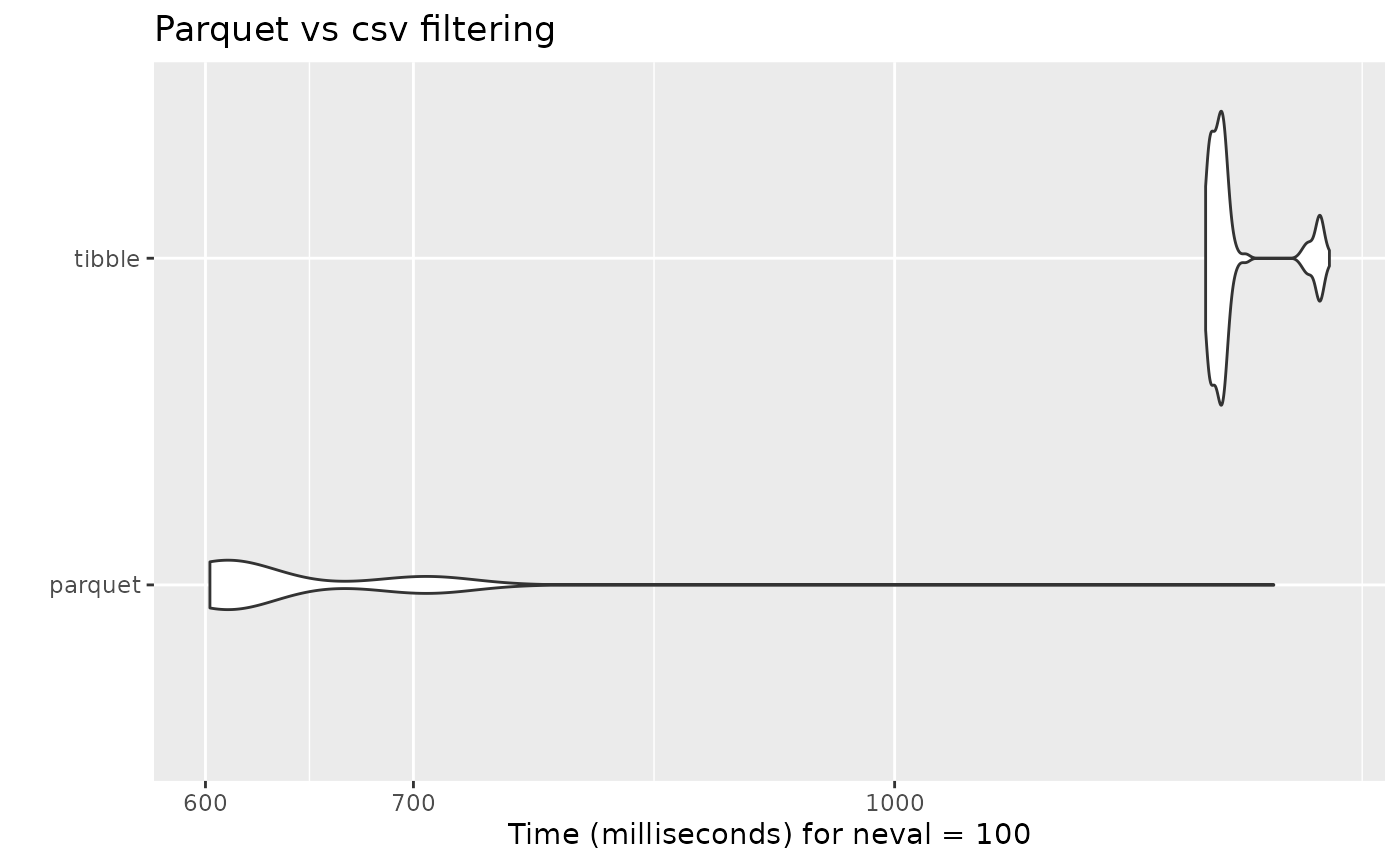
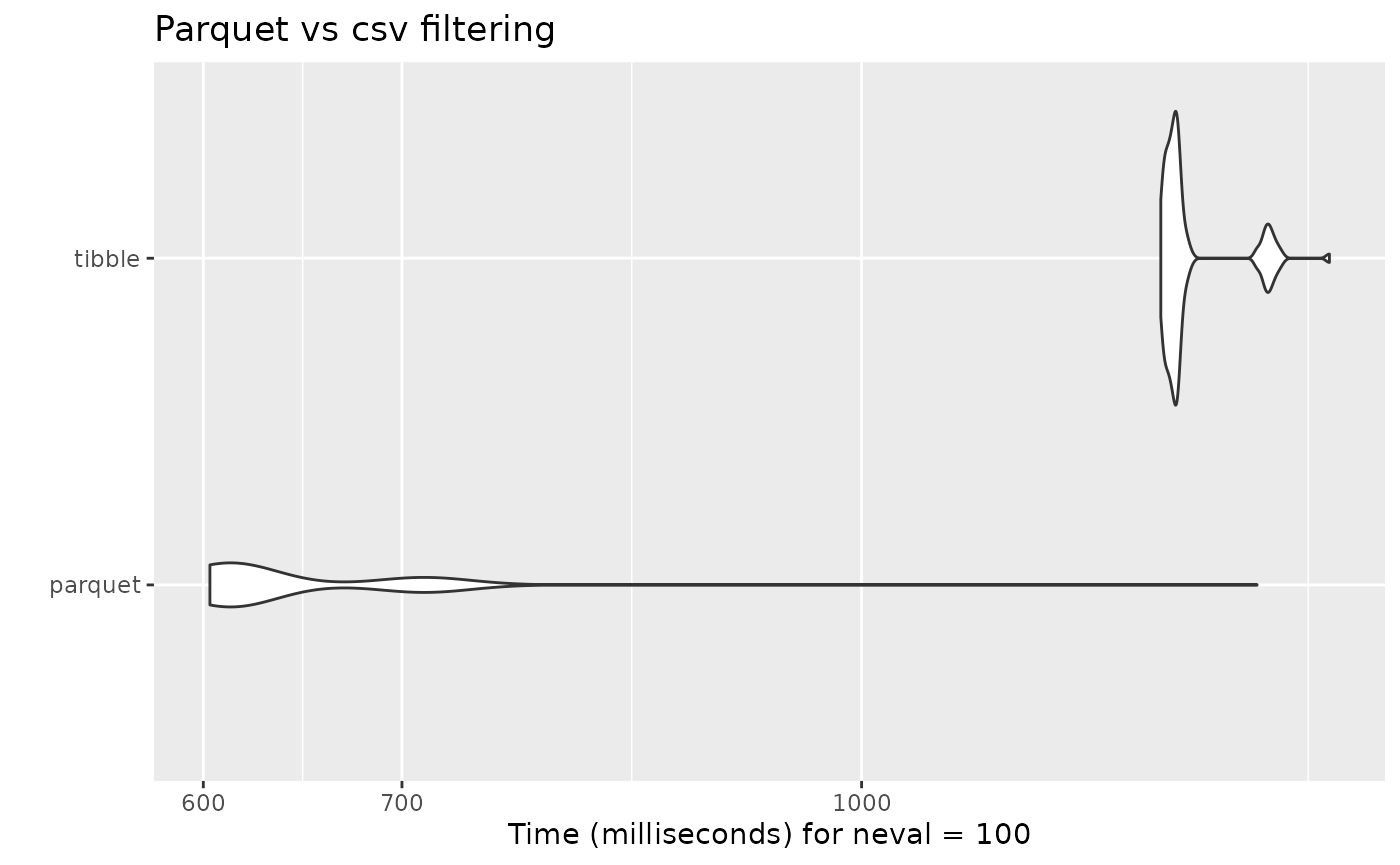
Deploying to gh-pages from @ amslala/regtools@811ed40d24ddf9147f3b0bcd75e80a4cd36dcbe7 🚀

diff --git a/articles/parquet-files.html b/articles/parquet-files.html
@@ -185,8 +185,8 @@ files:</p>
 <span>  code_col <span class="op">=</span> <span class="st">"code"</span>,</span>
 <span>  log_path <span class="op">=</span> <span class="va">l_path</span><span class="op">)</span></span>
 <span><span class="co">#&gt; <span style="color: #00BBBB;">ℹ</span> You have provided a parquet file or database. Due to the characteristics of these data objects, the console output and logging will provide minimal information.</span></span>
-<span><span class="co">#&gt; Reading /tmp/RtmpNycNj8/file7057171d43e6/new_df.parquet file...</span></span>
-<span><span class="co">#&gt; <span style="color: #00BB00;">✔</span> Succesfully read file: /tmp/RtmpNycNj8/file7057171d43e6/new_df.parquet</span></span>
+<span><span class="co">#&gt; Reading /tmp/RtmpJ50J5j/file705e54956b88/new_df.parquet file...</span></span>
+<span><span class="co">#&gt; <span style="color: #00BB00;">✔</span> Succesfully read file: /tmp/RtmpJ50J5j/file705e54956b88/new_df.parquet</span></span>
 <span><span class="co">#&gt; Checking column requirements:</span></span>
 <span><span class="co">#&gt; <span style="color: #00BB00;">✔</span> ID column</span></span>
 <span><span class="co">#&gt; <span style="color: #00BB00;">✔</span> Code column</span></span>
@@ -202,9 +202,9 @@ files:</p>
 <span><span class="co">#&gt; </span></span>
 <span><span class="co">#&gt; FileSystemDataset with 1 Parquet file</span></span>
 <span><span class="co">#&gt; 8,391,947 rows x 3 columns</span></span>
-<span><span class="co">#&gt; $ id       <span style="color: #949494; font-style: italic;">&lt;string&gt;</span> "P000000669", "P000000669", "P000000669", "P000000669", "P00…</span></span>
-<span><span class="co">#&gt; $ code     <span style="color: #949494; font-style: italic;">&lt;string&gt;</span> "F840", "F905", "F712", "F2089", "F457", "F616", "F406", "F4…</span></span>
-<span><span class="co">#&gt; $ diag_year <span style="color: #949494; font-style: italic;">&lt;int32&gt;</span> 2012, 2012, 2012, 2012, 2014, 2013, 2012, 2014, 2014, 2014, …</span></span></code></pre></div>
+<span><span class="co">#&gt; $ id       <span style="color: #949494; font-style: italic;">&lt;string&gt;</span> "P010466175", "P010466175", "P010466175", "P010466190", "P01…</span></span>
+<span><span class="co">#&gt; $ code     <span style="color: #949494; font-style: italic;">&lt;string&gt;</span> "F3341", "F1629", "F442", "F135", "F330", "F3173", "F767", "…</span></span>
+<span><span class="co">#&gt; $ diag_year <span style="color: #949494; font-style: italic;">&lt;int32&gt;</span> 2012, 2012, 2012, 2013, 2015, 2014, 2012, 2013, 2013, 2014, …</span></span></code></pre></div>
 </div>
 <div class="section level3">
 <h3 id="filtering">Filtering<a class="anchor" aria-label="anchor" href="#filtering"></a>
@@ -295,9 +295,9 @@ data frame object:</p>
 <span>  check <span class="op">=</span> <span class="cn">NULL</span></span>
 <span><span class="op">)</span></span></code></pre></div>
 <pre><code><span><span class="co">#&gt; Unit: milliseconds</span></span>
-<span><span class="co">#&gt;     expr       min        lq     mean    median        uq      max neval</span></span>
-<span><span class="co">#&gt;  parquet  601.9866  608.3167  641.997  611.1733  699.5101 1324.506   100</span></span>
-<span><span class="co">#&gt;   tibble 1259.2514 1265.4810 1287.424 1273.0344 1279.6690 1380.260   100</span></span></code></pre>
+<span><span class="co">#&gt;     expr       min        lq      mean    median        uq      max neval</span></span>
+<span><span class="co">#&gt;  parquet  603.0895  610.7851  645.3188  614.2039  706.1994 1359.201   100</span></span>
+<span><span class="co">#&gt;   tibble 1261.3704 1269.1117 1291.4677 1275.8846 1281.8914 1437.681   100</span></span></code></pre>
 <p><img src="parquet-files_files/figure-html/bench-plot-1.png" width="700"></p>
 </div>
   </main><aside class="col-md-3"><nav id="toc" aria-label="Table of contents"><h2>On this page</h2>